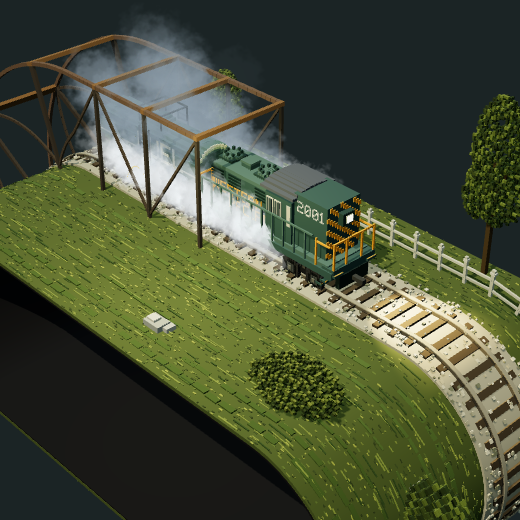
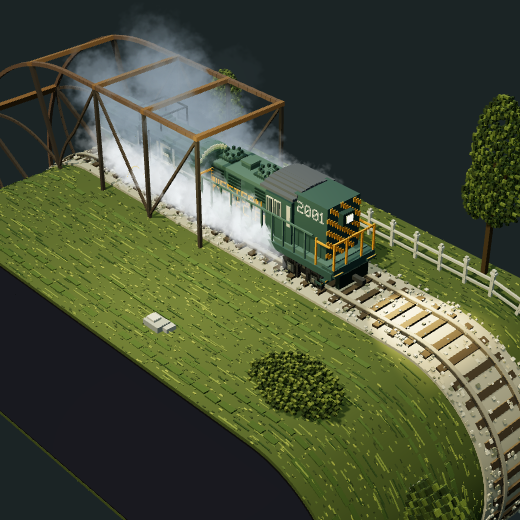
fix(voxel-train): preserve square mobile framing and validate landscape controls

Changed region(s): [[0.0, 0.5231, 0.1538, 0.6462]]

diff --git a/kaopu-minigame-workbench/voxel-train-study/style.css b/kaopu-minigame-workbench/voxel-train-study/style.css
@@ -2,3 +2,6 @@
 @media(prefers-reduced-motion:reduce){*{scroll-behavior:auto}}
 
 .masthead a{pointer-events:auto;color:inherit;text-decoration:none;display:inline-flex;align-items:center;min-height:28px}.masthead a:hover{color:#e3d598}
+/* Preserve the authored square view on phones instead of revealing extra lower-loop geometry. */
+@media(max-width:600px) and (orientation:portrait){canvas#scene{position:absolute;left:0;top:50%;width:100%;height:100vw;transform:translateY(-50%)}}
+@media(max-height:600px) and (orientation:landscape){#stage{min-height:0;height:100dvh}.masthead{padding:13px 20px}.masthead h1{font-size:20px}.masthead .subtitle{display:none}.controls{bottom:10px;padding-top:5px;padding-bottom:6px}#hint{display:none}}
